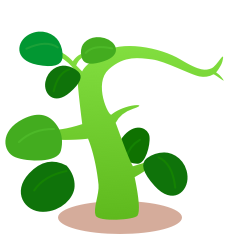
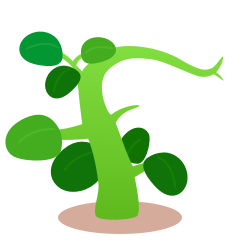
农场动画已完成，新增查看视频页面。

Changed region(s): [[0.0868, 0.5785, 0.405, 0.8967]]

diff --git a/src/less/liml6.less b/src/less/liml6.less
@@ -443,6 +443,25 @@
         left: 40%;
         top: -60px;
       }
+      // 果实
+      .mature {
+        position: absolute;
+        &.picking {
+          filter: brightness(60%);
+        }
+      }
+      .mature-large {
+        width: 98px;
+        height: 98px;
+        top: 52px;
+        right: 30px;
+      }
+      .mature-mini {
+        width: 56px;
+        height: 56px;
+        bottom: 53px;
+        left: 50px;
+      }
       // 虫子
       .insect {
         width: 30px;
@@ -963,4 +982,75 @@
 }
 .swiper-container {
   .setTapColor();
+}
+
+// 查看视频
+.see-video {
+  width: 100%;
+  img {
+    width: 100%;
+  }
+}
+.remote {
+  .fixed-default;
+  bottom: 0;
+  z-index: 10;
+  background-color: #fff;
+  padding: 120px 0 100px;
+  .top-btns {
+    display: flex;
+    justify-content: center;
+    margin-bottom: 20px;
+    .top-btn {
+      display: flex;
+      align-items: center;
+      justify-content: center;
+      width: 100px;
+      height: 100px;
+      border-radius: 50%;
+      border: 1px solid #dddddd;
+      i {
+        width: 68px;
+        height: 68px;
+        background-color: #999999;
+      }
+      &:not(:last-child) {
+        margin-right: 135px;
+      }
+      &:nth-child(2) {
+        margin-top: -60px;
+      }
+    }
+  }
+  .remote-control {
+    width: 324px;
+    height: 324px;
+    margin: auto;
+    position: relative;
+    &__btn {
+      position: absolute;
+      width: 120px;
+      height: 120px;
+      &.\-top {
+        top: -40px;
+        left: 50%;
+        transform: translateX(-50%);
+      }
+      &.\-bottom {
+        bottom: -40px;
+        left: 50%;
+        transform: translateX(-50%);
+      }
+      &.\-left {
+        left: -40px;
+        top: 50%;
+        transform: translateY(-50%);
+      }
+      &.\-right {
+        right: -40px;
+        top: 50%;
+        transform: translateY(-50%);
+      }
+    }
+  }
 }

diff --git a/src/app/03.06-片区详情-查看视频.html b/src/app/03.06-片区详情-查看视频.html
@@ -1,0 +1,36 @@
+{% extends 'app.nunjucks' %}
+{% block title %}蔬游-好友农场{% endblock %}
+{% block content %}
+
+<div class="headbar-sticky">
+  <div class="aiui-headbar aiui-headbar__fixed aiui-headbar__transparent">
+    <div class="aiui-headbar__item">
+      <a href="javascript:history.back();" class="icon-return"></a>
+    </div>
+    <h3 class="aiui-headbar__title">智能摄像头</h3>
+  </div>
+</div>
+<div class="see-video">
+  <img src="../images/area_bg.png" alt="">
+</div>
+<div class="remote">
+  <div class="top-btns">
+    <button type="button" class="top-btn"><i class="icon-video"></i></button>
+    <button type="button" class="top-btn"><i class="icon-telephone-outline"></i></button>
+    <button type="button" class="top-btn"><i class="icon-camera-outline"></i></button>
+  </div>
+  <div class="remote-control">
+    <img src="../images/remote-control-img.png" alt="遥控表盘">
+    <button type="button" class="remote-control__btn -top"></button>
+    <button type="button" class="remote-control__btn -bottom"></button>
+    <button type="button" class="remote-control__btn -left"></button>
+    <button type="button" class="remote-control__btn -right"></button>
+  </div>
+
+</div>
+{% endblock %} {% block footer %}
+<script>
+  //头部导航固定
+  $(".headbar-sticky").sticky({ topSpacing: 0 });
+</script>
+{% endblock %}

diff --git a/src/app/02.01-好友农场.html b/src/app/02.01-好友农场.html
@@ -19,7 +19,9 @@
         <button type="button" class="land land1">
           <div class="soil">
             <div class="tree-wrap">
-              <img src="../images/result_tree.png" alt="未成熟果实" class="tree">
+              <img src="../images/mature-tree.png" alt="未成熟的树" class="tree">
+              <img src="../images/immature.png" alt="西红柿" class="mature mature-large">
+              <img src="../images/immature.png" alt="西红柿" class="mature mature-mini">
               <div class="land-bubble land-bubble__bottom weeding">
                 <img src="../images/weeding.png" alt="除草">
               </div>
@@ -50,7 +52,9 @@
         <button type="button" class="land land3">
           <div class="soil">
             <div class="tree-wrap">
-              <img src="../images/mature_tree.png" alt="成熟果实" class="tree">
+              <img src="../images/mature-tree.png" alt="可采摘的树" class="tree">
+              <img src="../images/mature.png" alt="西红柿" class="mature mature-large">
+              <img src="../images/mature.png" alt="西红柿" class="mature mature-mini">
               <div class="land-bubble land-bubble__bottom deworming">
                 <img src="../images/deworming.png" alt="杀虫">
               </div>

diff --git a/src/app/01.06-首页-我的农场-剩余动画演示.html b/src/app/01.06-首页-我的农场-剩余动画演示.html
@@ -29,15 +29,17 @@
       <div class="lands">
         <button type="button" class="land land1">
           <div class="soil">
-            <!-- 小苗 -->
-            <div class="seedlings">
-              <img src="../images/seedlings.png" alt="树苗">
-              <div class="land-bubble land-bubble__top fertilization">
-                <img src="../images/fertilization.png" alt="施肥">
+            <!-- 可采摘的树 -->
+            <div class="tree-wrap">
+              <img src="../images/mature-tree.png" alt="可采摘的树" class="tree">
+              <img src="../images/mature.png" alt="西红柿" class="mature mature-large">
+              <img src="../images/mature.png" alt="西红柿" class="mature mature-mini">
+              <div class="land-bubble land-bubble__top reward">
+                <img src="../images/reward.png" alt="采摘">
               </div>
 
-              <div class="gif fertilization-gif">
-                <img src="../images/gif/fertilization.gif" alt="松地动画">
+              <div class="gif gif-top reward-gif">
+                <img src="../images/gif/reward.gif" alt="采摘动画">
               </div>
 
             </div>

diff --git a/src/js/land.js b/src/js/land.js
@@ -444,6 +444,16 @@ $("#sowingBtn").bind("click", function() {
     .delay(3500)
     .fadeIn();
 });
+
+// 采摘动作
+$("#rewardBtn").bind("click", function() {
+  $(".land").attr("disabled", true);
+  var $this = $(this);
+  $this.attr("disabled", true);
+  $this.siblings(".aiui-badge").remove();
+  $(".land2 .reward").remove();
+  showGif("reward", 2000);
+});
 // 铲除动画
 $("#eradicateBtn").bind("click", function() {
   $(".land").attr("disabled", true);
@@ -503,6 +513,11 @@ function removeEl() {
     .find(".grass")
     .remove();
   $(".land").attr("disabled", false);
+
+  // 采摘后把果实变暗
+  $(".land2")
+    .find(".mature")
+    .addClass("picking");
 }
 // 显示添加按钮
 function addBtn() {

diff --git a/src/app/01.04-首页-我的农场.html b/src/app/01.04-首页-我的农场.html
@@ -67,7 +67,7 @@
         <button type="button" class="land land3">
           <div class="soil">
             <!-- 新增土地 -->
-            <a href="01.05-默认选地页.html" class="land-add__btn"></a>
+            <a href="javascript:;" class="land-add__btn"></a>
           </div>
         </button>
       </div>

diff --git a/src/less/svgicon.less b/src/less/svgicon.less
@@ -57,6 +57,10 @@
   .icon-default;
   mask-image: url(../svg/icon-camera.svg);
 }
+.icon-camera-outline {
+  .icon-default;
+  mask-image: url(../svg/icon-camera-outline.svg);
+}
 .icon-checkbox-on {
   .icon-default;
   mask-image: url(../svg/icon-checkbox-on.svg);
